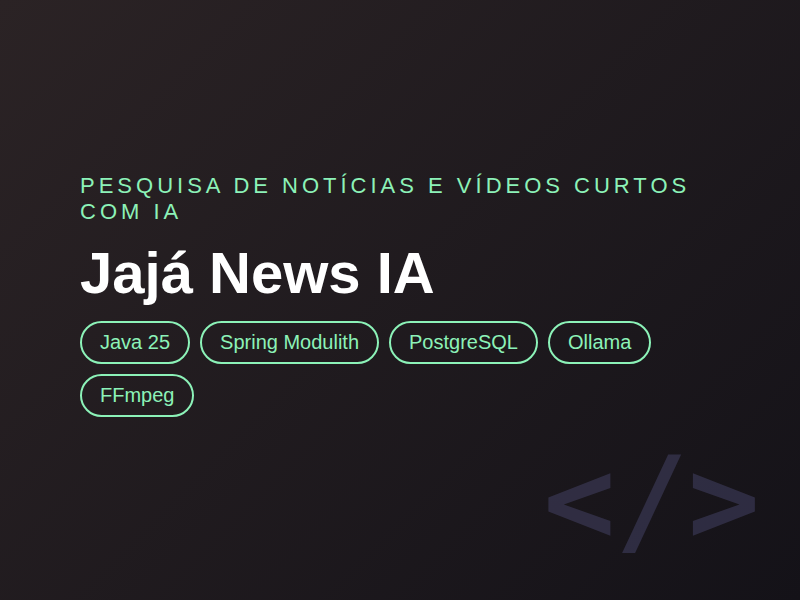
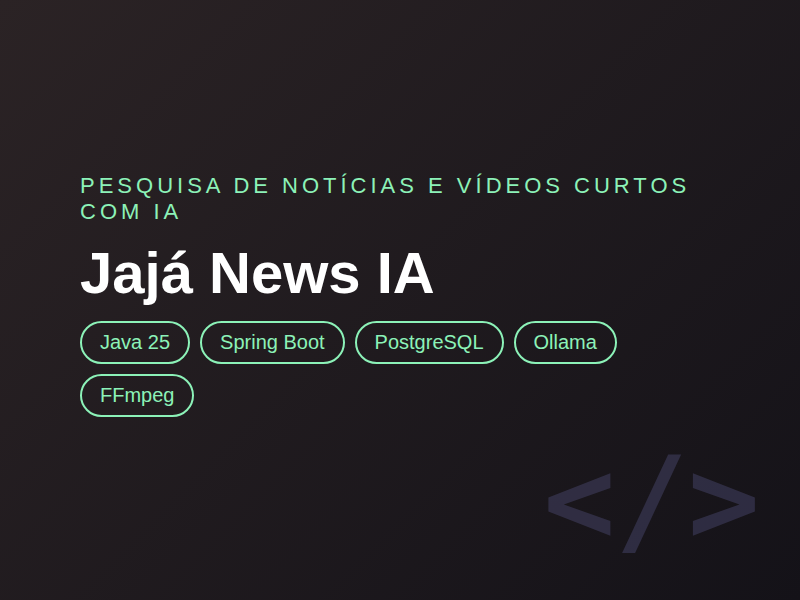
style: brilho da capa fixo atrás da página inteira; capa do Jajá News sem Modulith

Changed region(s): [[0.3438, 0.51, 0.8125, 0.63]]

diff --git a/src/styles.scss b/src/styles.scss
@@ -13,8 +13,18 @@ html {
 
 /* Fundo único da página: as seções ficam transparentes sobre ele */
 body {
-    background: #1c1819;
+    background: #221717;
     color: #e6e6e6;
+}
+
+/* O brilho da capa fica fixo atrás de toda a página (pseudo-elemento porque o iOS ignora background-attachment: fixed) */
+body::before {
+    content: "";
+    position: fixed;
+    inset: 0;
+    z-index: -1;
+    background: radial-gradient(circle at 50% 35%, #555454df, #211c1cdc, #221717);
+    pointer-events: none;
 }
 
 section[id] {

diff --git a/src/app/components/hello/hello.component.scss b/src/app/components/hello/hello.component.scss
@@ -11,7 +11,7 @@
 /* Alinhamento central */
 .hero {
   font-family: "Belanosima", sans-serif;
-  background: radial-gradient(circle at 50% 35%, rgba(85, 84, 84, 0.85), rgba(40, 33, 34, 0.7) 55%, transparent 100%);
+  background: transparent;
   height: 100vh;
   width: 100%;
   display: flex;
